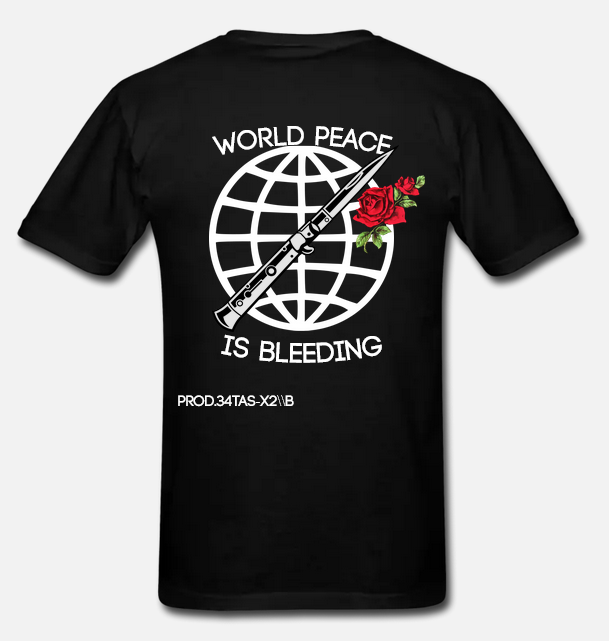
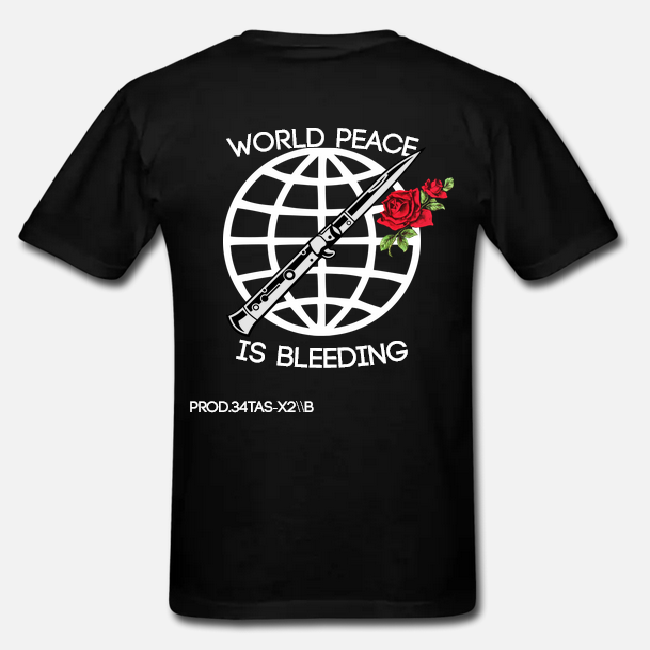
updated front page, resized pictures

diff --git a/index.html b/index.html
@@ -8,36 +8,15 @@
   <body style=" background-color:#a4d167;">
     <div class="header">
       <img class="logo" src="Logo.png">
-      <div class="header-text">
-        <b>DEAD SEA MAFIA CO.</b>
-      </div>
+      <b class="header-text">DEAD SEA MAFIA CO.</b>
     </div>
-    <br>
-    <br>
-    <br>
-    <br>
-    <br>
-    <br>
-    <br>
-    <br>
-    <br>
-    <br>
-    <br>
-    <br>
-    <br>
-    <br>
-    <br>
-    <br>
-    <br>
-    <br>
-    <br>
-    <br>
-    <br>
-    <div style="text-align: left;"><b><i>Men</i></b></div>
-    <div style="text-align: left;"><b><i>Women</i></b></div>
+    <div class="middle">
+      <div style="text-align: left;"><b><i>Men</i></b></div>
+      <div style="text-align: left;"><b><i>Women</i></b></div>
+    </div>
     <div class="footer">
-      <a class="footer-link" style="text-align: left;"><i>Dead Sea Mafia Co est. 2019</i></a>
-      <a class="footer-link" style="color: #f2f2f2; text-align: center;" href="/contact-us">Contact Us</a>
+      <i class="footer-text">Dead Sea Mafia Co est. 2019</i>
+      <a class="footer-text" style="padding-left: 50px;" href="/contact-us">Contact Us</a>
     </div>
   </body>
 </html>

diff --git a/front-page.css b/front-page.css
@@ -2,7 +2,6 @@
   position: fixed;
   left: 0;
   top: 0;
-  text-align: center;
   width: 100%;
 }
 .logo {
@@ -12,15 +11,22 @@
   width: 250px;
 }
 .header-text {
-  top: 125;
+  position: fixed;
+  top: 100px;
+  left: 260px;
+  font-size: 50px;
+  padding-left: 25px;
+}
+.middle {
+  position: fixed;
+  top: 300px;
 }
 .footer {
   position: fixed;
   left: 0;
   bottom: 0;
   width: 100%;
-  line-height: 50px;
 }
-.footer-links {
-  padding: 0 50px 0 50px;
+.footer-text {
+  color: black;
 }

diff --git a/women/shirts/index.html b/women/shirts/index.html
@@ -10,9 +10,9 @@
     <table style="width: 1354px; height: 373px;" border="1">
       <tbody>
         <tr>
-          <td>chill bill</td>
-          <td>price 19.99 not incl tax</td>
-          <td>shirt link</td>
+          <td>Chill Bill</td>
+          <td>price 29.99 not incl tax</td>
+          <td><img></img></td>
         </tr>
       </tbody>
     </table>

diff --git a/men/shirts/shirts-men.css b/men/shirts/shirts-men.css
@@ -6,13 +6,15 @@
   text-align: center;
   line-height: 30px;
 }
+.middle {
+  position: fixed;
+  top: 300px;
+}
 #img {
   background-image: url("designs/world-bleeds/back.PNG");
   height: 650px;
-  width: 615px;
+  width: 650px;
 }
 #img:hover {
   background-image: url("designs/world-bleeds/front.PNG");
-  height: 650px;
-  width: 615px;
 }

diff --git a/men/shirts/index.html b/men/shirts/index.html
@@ -6,11 +6,8 @@
   </head>
   <body style=" background-color:#a4d167">
     <div class="header">
-      <h1>shirts (men)</h1>
+      <h1>Mens Shirts</h1>
     </div>
-    <br>
-    <br>
-    <br>
     <p>current drop</p>
     <table style="width: 1354px; height: 373px;" border="1">
       <tbody>
